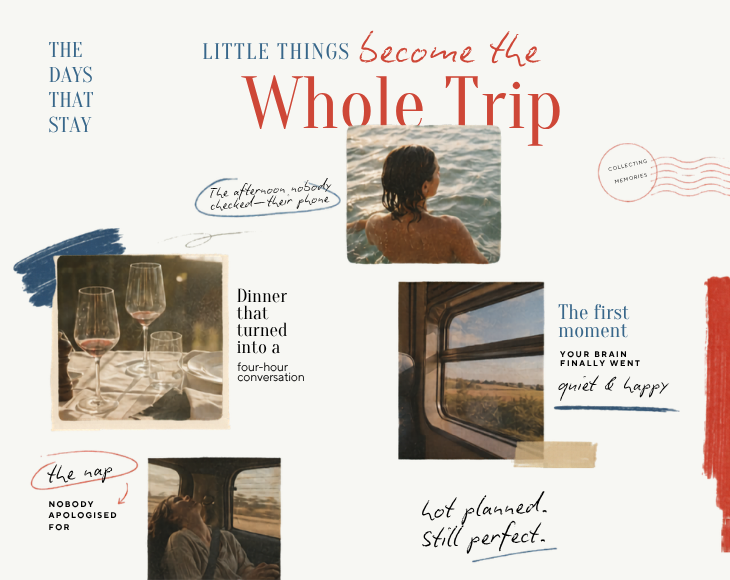
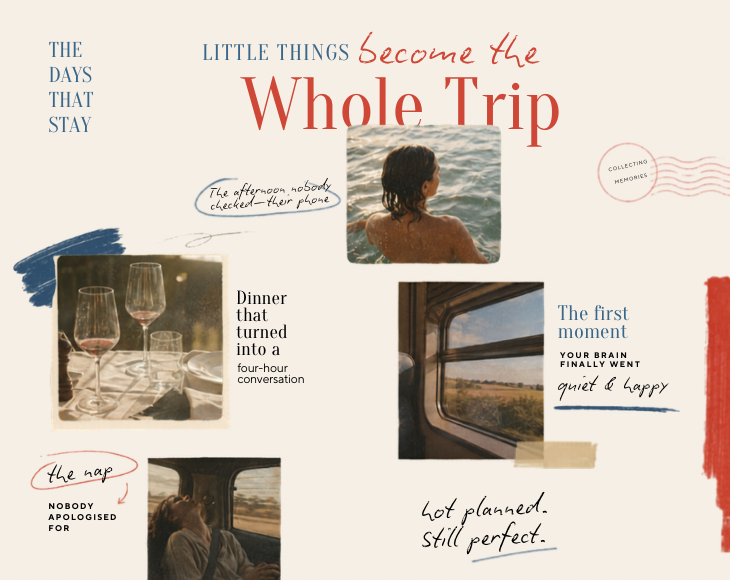
suggestion changes

diff --git a/src/components/home/ReviewsCarousel.tsx b/src/components/home/ReviewsCarousel.tsx
@@ -1,30 +1,36 @@
 import React from 'react';
+import Image from 'next/image';
 
 const reviews = [
   {
     quote: "I didn't know how tired I was until I didn't have to plan a single thing. This was a reset I didn't know I needed.",
-    name: 'Mona Champ',
+    name: 'Mona & Champ',
     context: 'L&F Experience — Jaipur',
+    image: null,
   },
   {
     quote: "The first trip where neither of us had to carry the mental load. We just showed up and let it happen. Pure relief.",
     name: 'Grace & Joel',
     context: 'The Slow Transit — Ahangama',
+    image: null,
   },
   {
     quote: "They understood what we wanted before we even finished explaining it. My family is still talking about that trip.",
     name: 'Siddharth & family',
     context: 'Family Trip — Coorg',
+    image: null,
   },
   {
     quote: "We've done corporate offsites before — nothing has come close to this. The team actually disconnected. Properly.",
     name: 'Konidela family',
     context: 'Corporate Planning — Goa',
+    image: null,
   },
   {
     quote: "It felt like traveling with a friend who knew every right turn. Not a tourist trap in sight. Just the real thing.",
     name: 'Anonymous',
     context: 'Corporate Planning',
+    image: null,
   },
 ];
 
@@ -42,58 +48,88 @@ export function ReviewsCarousel() {
       </div>
 
       <div className="container">
-        {/* Responsive card grid: 1 col → 2 col (md) → 3 col (lg).
-            flex-wrap with a fixed item width gives us "justify-center" so
-            any orphan cards on the last row are automatically centered. */}
         <div className="flex flex-wrap justify-center gap-6">
           {reviews.map((rev, idx) => (
             <div
               key={idx}
-              className="w-full md:w-[calc(50%-12px)] lg:w-[calc(33.333%-16px)] p-8 flex flex-col border"
+              className="w-full md:w-[calc(50%-12px)] lg:w-[calc(33.333%-16px)] flex flex-col border overflow-hidden"
               style={{
                 backgroundColor: 'var(--paper-deep)',
                 borderColor: 'rgba(0,0,0,0.08)',
               }}
             >
-              {/* Decorative opening quote mark */}
+              {/* Photo area */}
               <div
-                className="mb-4 leading-none select-none"
-                style={{
-                  fontFamily: 'var(--font-serif)',
-                  fontSize: '48px',
-                  color: 'var(--clay)',
-                  lineHeight: 1,
-                }}
-                aria-hidden="true"
+                className="w-full aspect-[4/3] relative overflow-hidden"
+                style={{ backgroundColor: 'rgba(0,0,0,0.07)' }}
               >
-                &#10077;
+                {rev.image ? (
+                  <Image
+                    src={rev.image}
+                    alt={rev.name}
+                    fill
+                    className="object-cover"
+                  />
+                ) : (
+                  <div className="w-full h-full flex items-center justify-center">
+                    <svg
+                      width="48"
+                      height="48"
+                      viewBox="0 0 48 48"
+                      fill="none"
+                      xmlns="http://www.w3.org/2000/svg"
+                      aria-hidden="true"
+                    >
+                      <rect x="4" y="4" width="40" height="40" rx="2" stroke="rgba(0,0,0,0.2)" strokeWidth="2" strokeDasharray="4 3" fill="none" />
+                      <circle cx="24" cy="19" r="7" fill="rgba(0,0,0,0.15)" />
+                      <ellipse cx="24" cy="38" rx="13" ry="8" fill="rgba(0,0,0,0.15)" />
+                    </svg>
+                  </div>
+                )}
               </div>
 
-              {/* Quote body — grows to fill available space */}
-              <p
-                className="flex-1 italic text-[var(--ink)] leading-[1.6] mb-6"
-                style={{
-                  fontFamily: 'var(--font-body)',
-                  fontSize: 'clamp(16px, 1.15vw, 18px)',
-                }}
-              >
-                {rev.quote}
-              </p>
-
-              {/* Attribution — pinned to bottom, separated by a thin rule */}
-              <div
-                className="pt-5 flex flex-col gap-1"
-                style={{ borderTop: '1px solid rgba(0,0,0,0.10)' }}
-              >
-                <span
-                  className="font-semibold text-[var(--ink)]"
-                  style={{ fontFamily: 'var(--font-body)', fontSize: 'clamp(14px,1vw,15px)' }}
+              {/* Card body */}
+              <div className="p-8 flex flex-col flex-1">
+                {/* Decorative opening quote mark */}
+                <div
+                  className="mb-4 leading-none select-none"
+                  style={{
+                    fontFamily: 'var(--font-serif)',
+                    fontSize: '48px',
+                    color: 'var(--clay)',
+                    lineHeight: 1,
+                  }}
+                  aria-hidden="true"
                 >
-                  {rev.name}
-                </span>
-                <span className="t-mono text-[var(--ink-mute)] uppercase">
-                  {rev.context}
-                </span>
+                  &#10077;
+                </div>
+
+                {/* Quote body */}
+                <p
+                  className="flex-1 italic text-[var(--ink)] leading-[1.6] mb-6"
+                  style={{
+                    fontFamily: 'var(--font-body)',
+                    fontSize: 'clamp(16px, 1.15vw, 18px)',
+                  }}
+                >
+                  {rev.quote}
+                </p>
+
+                {/* Attribution */}
+                <div
+                  className="pt-5 flex flex-col gap-1"
+                  style={{ borderTop: '1px solid rgba(0,0,0,0.10)' }}
+                >
+                  <span
+                    className="font-semibold text-[var(--ink)]"
+                    style={{ fontFamily: 'var(--font-body)', fontSize: 'clamp(14px,1vw,15px)' }}
+                  >
+                    {rev.name}
+                  </span>
+                  <span className="t-mono text-[var(--ink-mute)] uppercase">
+                    {rev.context}
+                  </span>
+                </div>
               </div>
             </div>
           ))}

diff --git a/src/components/home/WhoWeVibeWith.tsx b/src/components/home/WhoWeVibeWith.tsx
@@ -13,7 +13,7 @@ const archetypes = [
 
 export function WhoWeVibeWith() {
   return (
-    <section className="bg-[var(--paper-deep)] relative overflow-hidden py-24 lg:py-32">
+    <section className="bg-[var(--paper-deep)] relative overflow-hidden py-10 lg:py-14">
       <div className="container flex flex-col items-center max-w-4xl relative">
 
         {/* Large script heading */}
